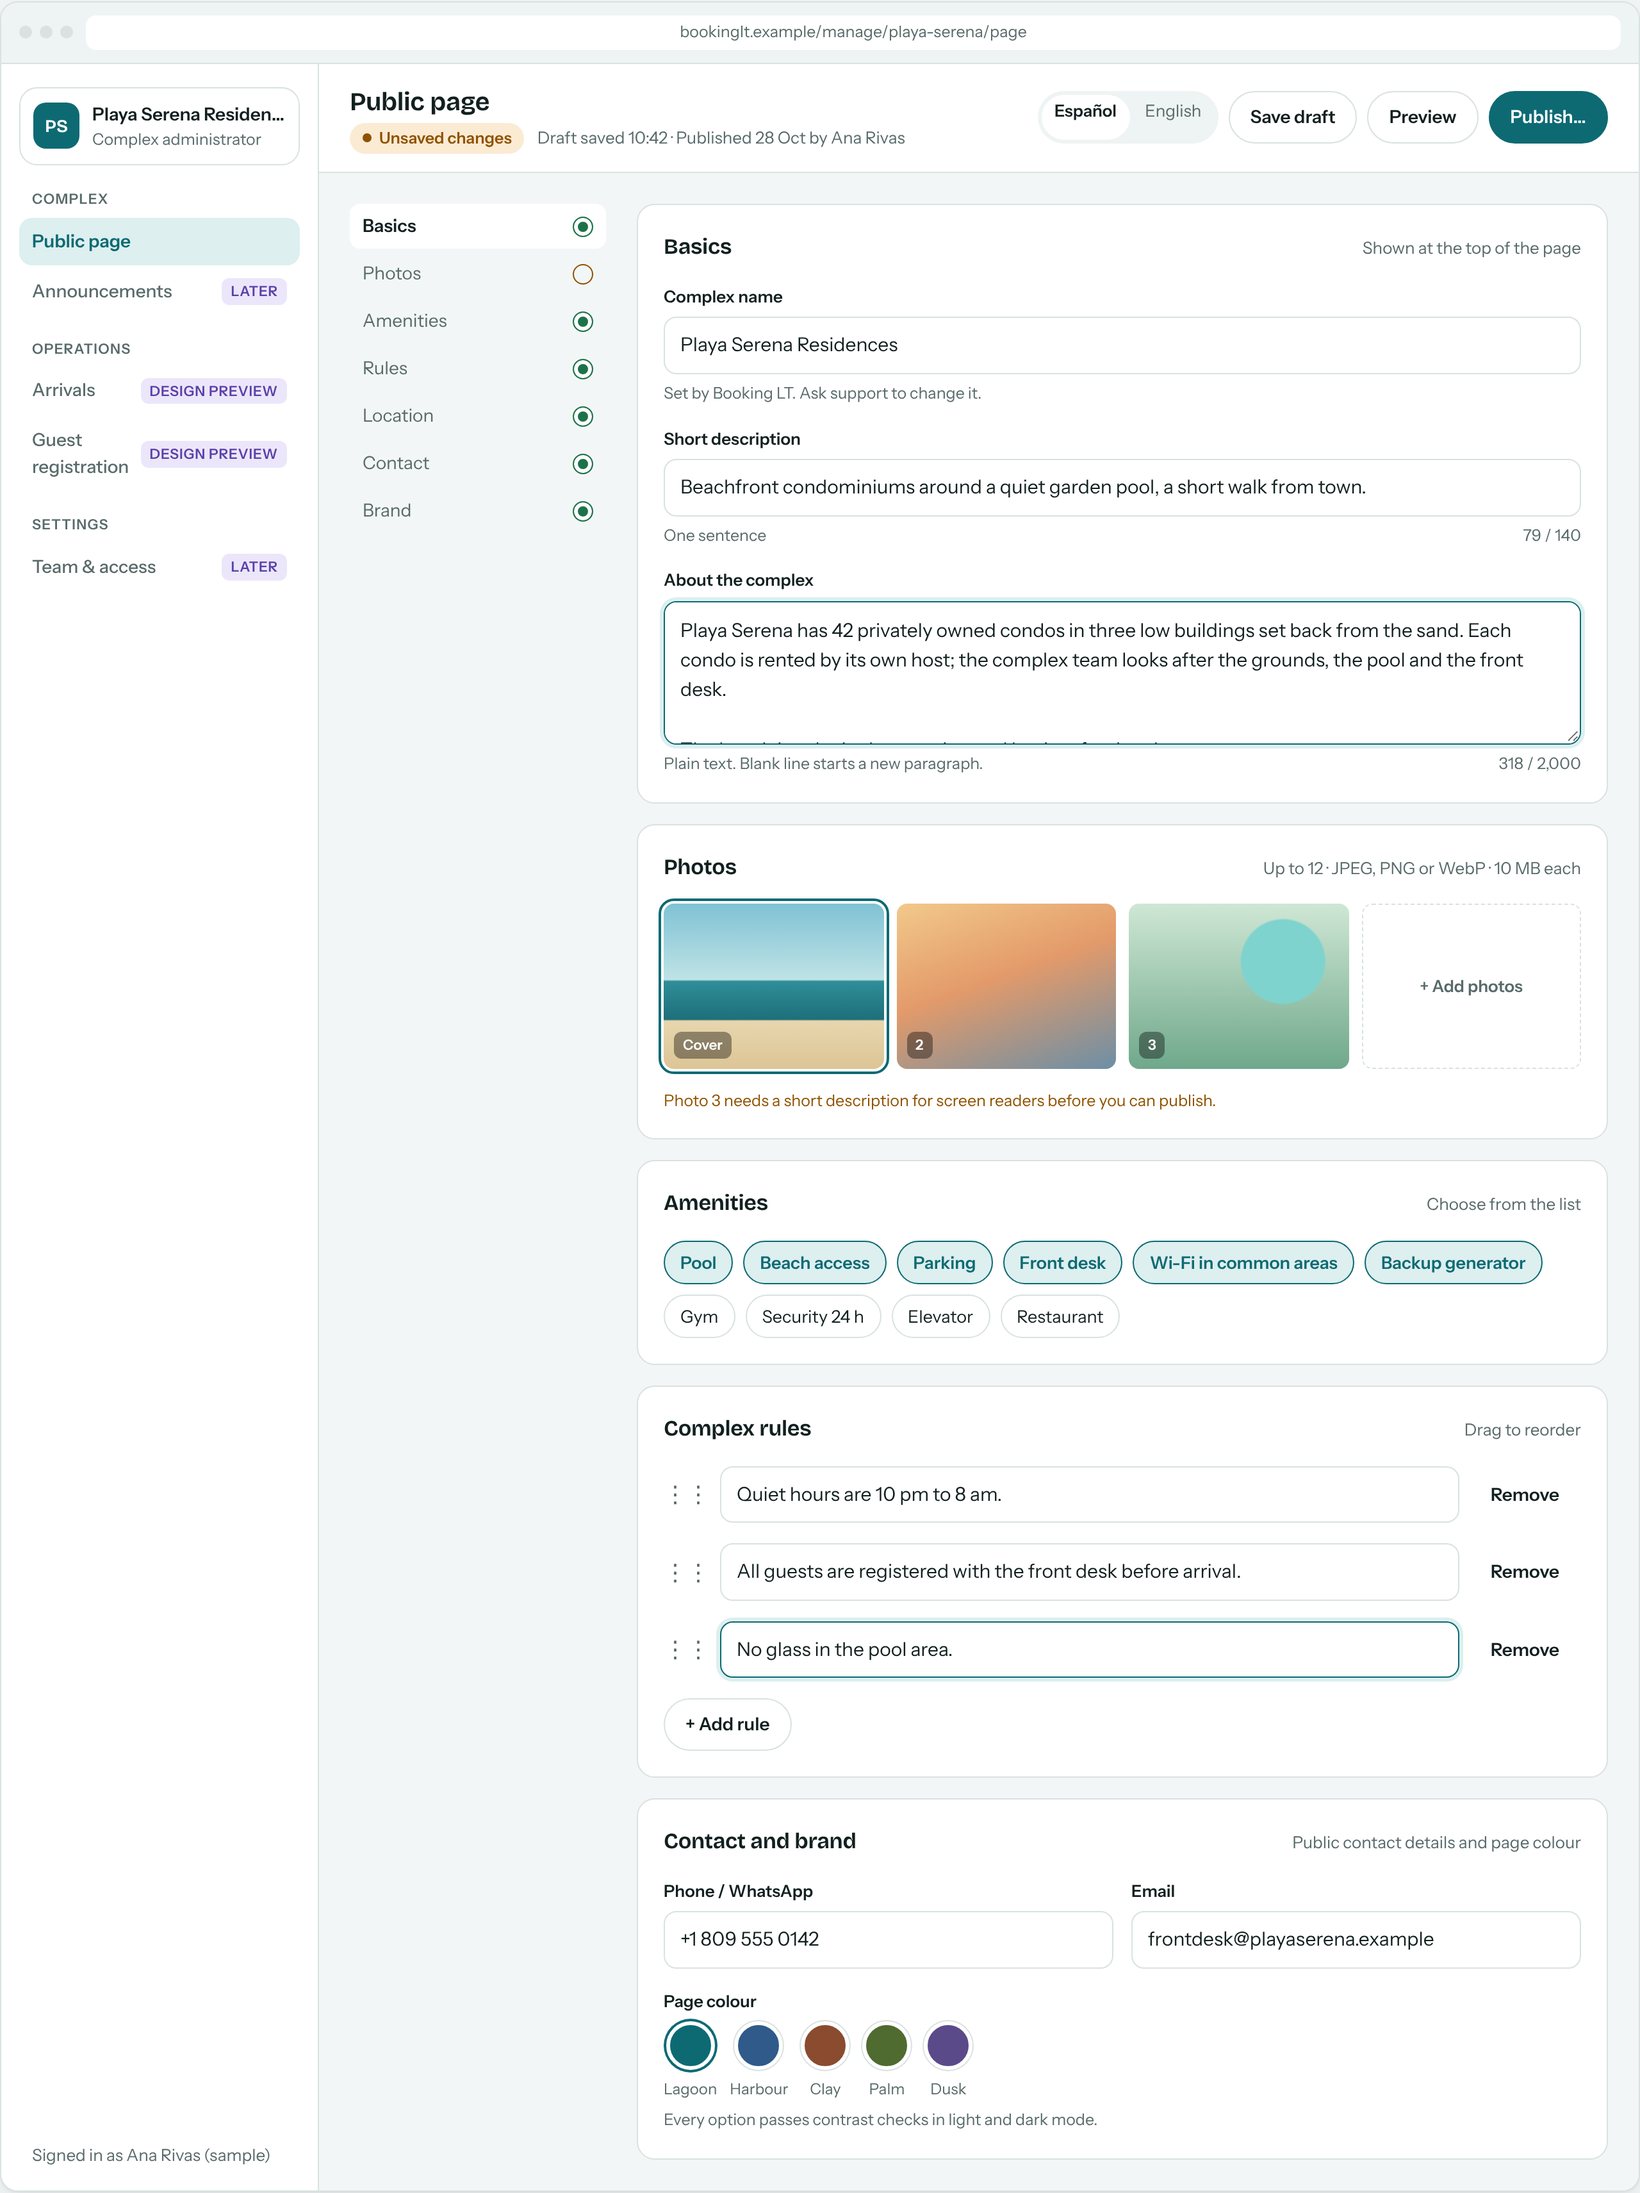
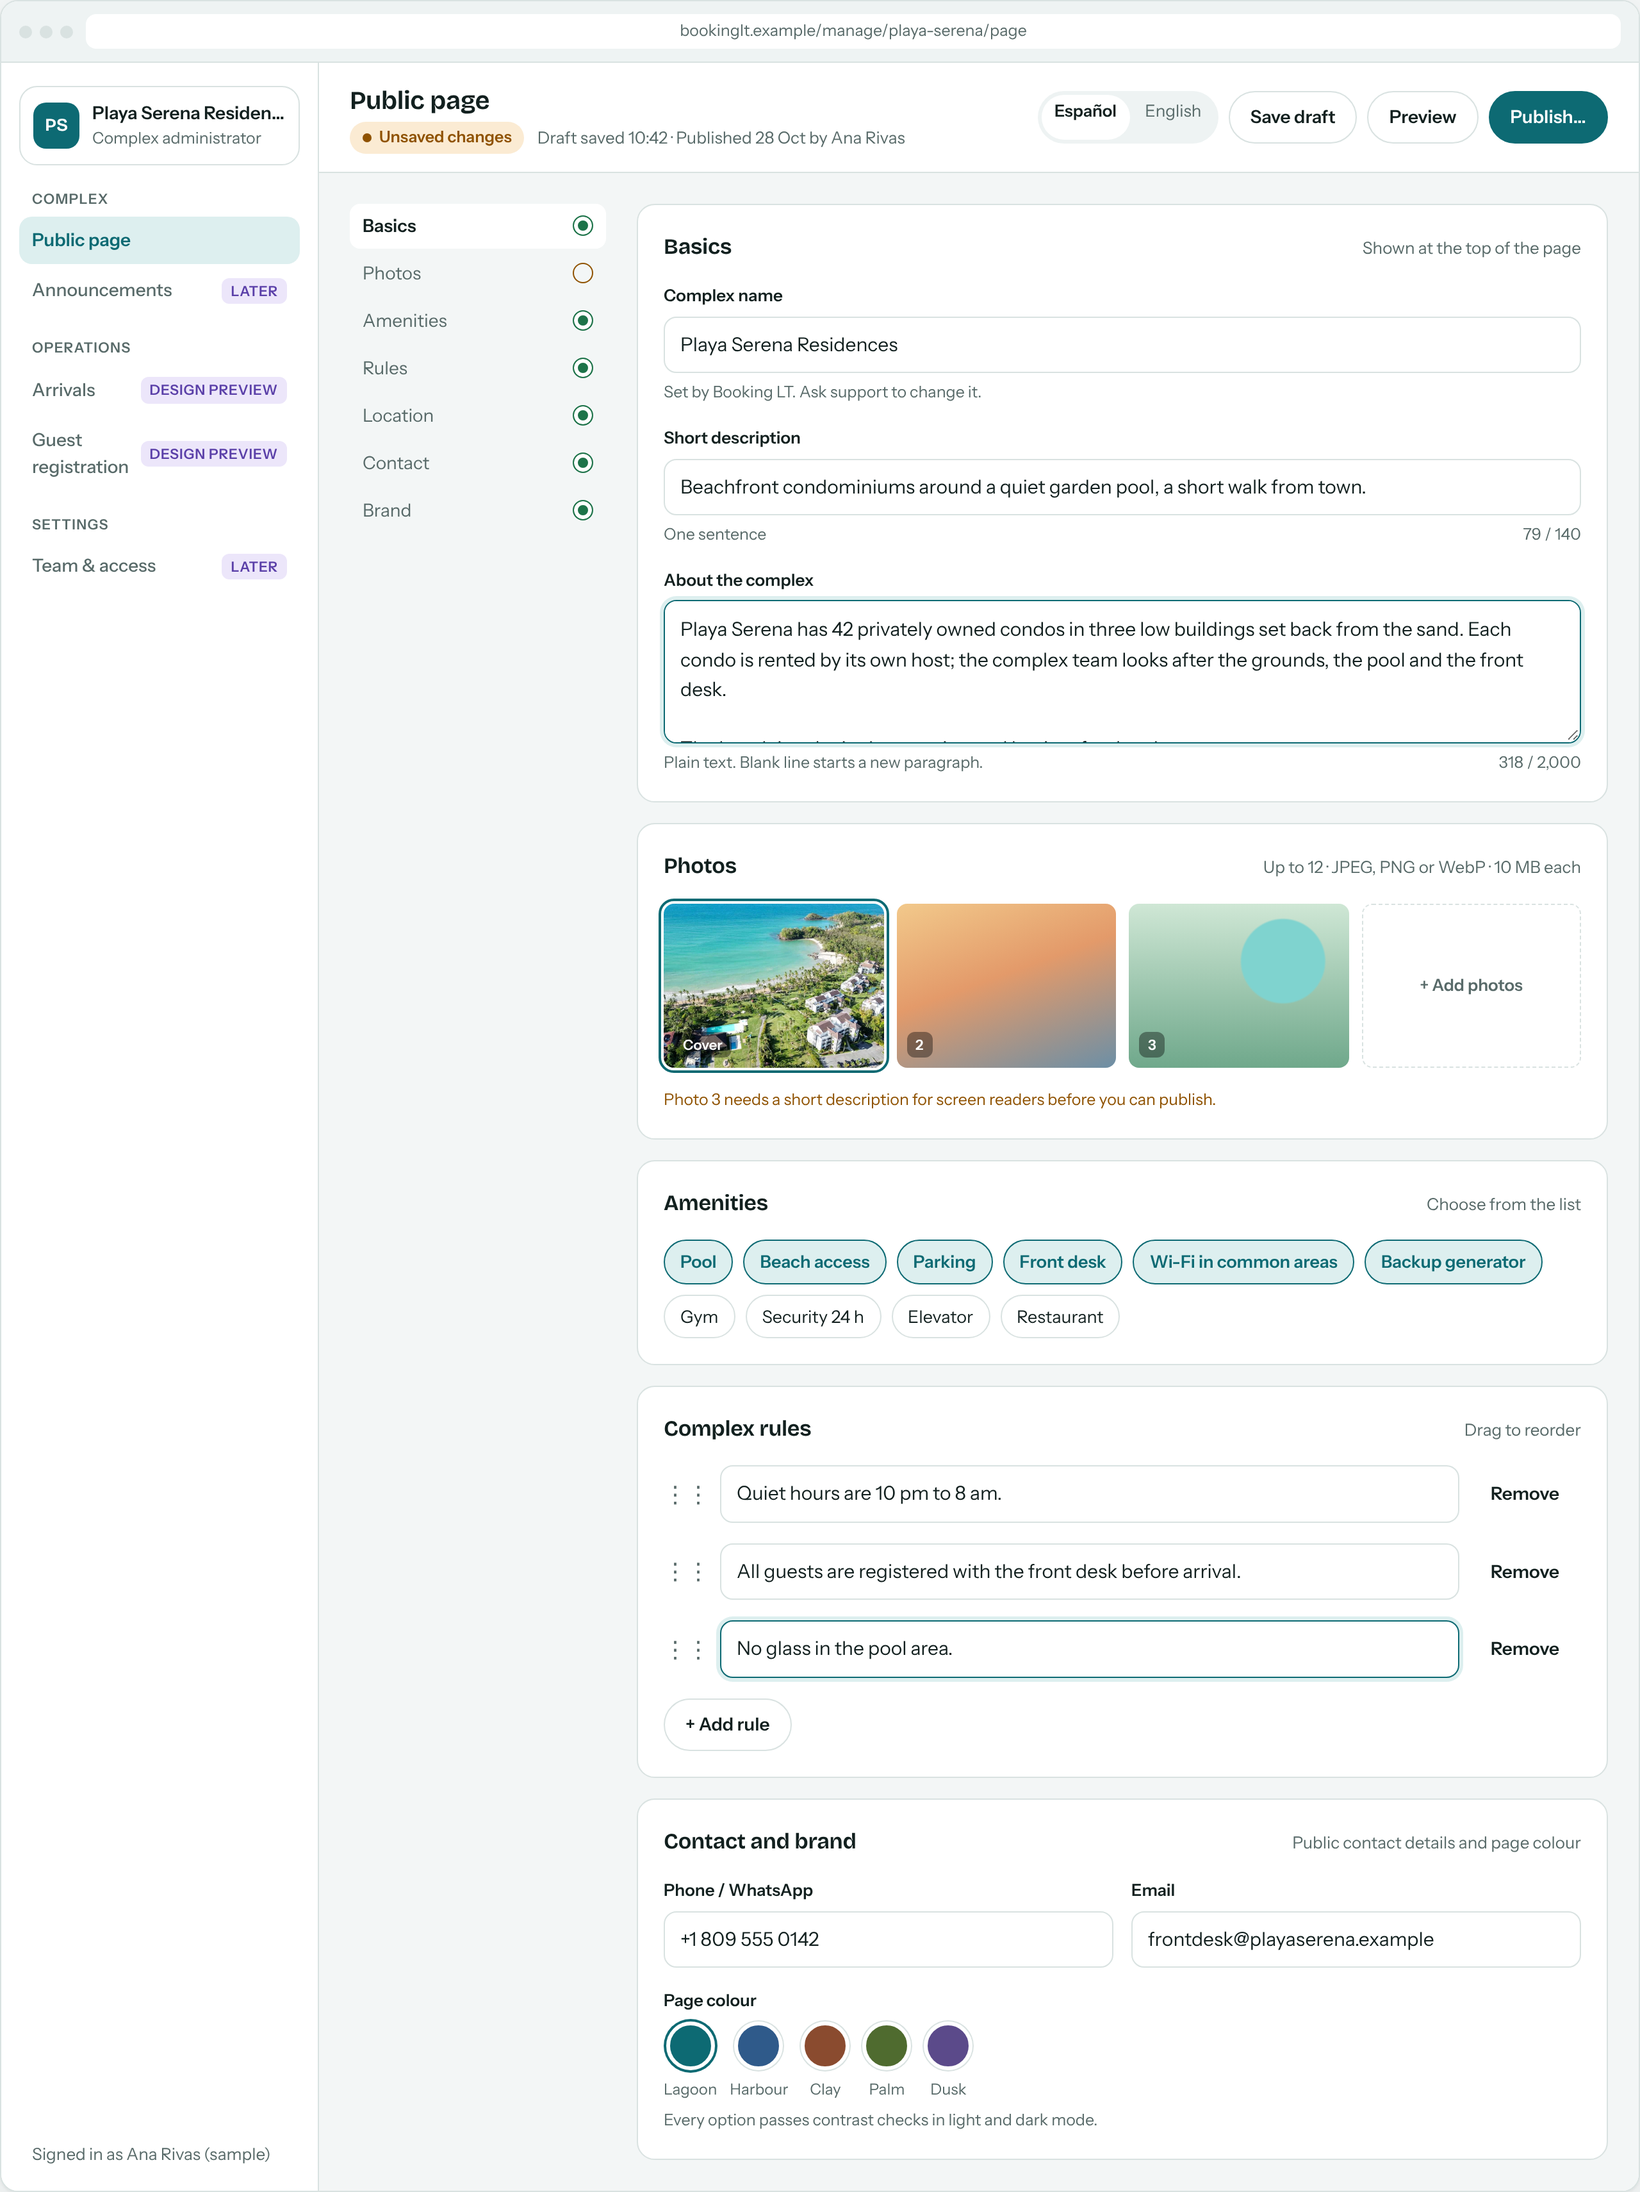
Use supplied aerial photo as the complex cover in design previews
Claude-Session: https://claude.ai/code/session_0149MffkdB1Dq8jBLV7YEnab

diff --git a/design/previews/m1-complex-page.html b/design/previews/m1-complex-page.html
@@ -3,7 +3,7 @@
 <meta name="robots" content="noindex">
 <!--
   Booking LT — Milestone 1 design previews (static, non-functional).
-  All names, contacts and photos are fictional placeholders.
+  Names and contacts are fictional placeholders; the cover photo was supplied for review and the other photos are drawn placeholders.
   Plan: docs/milestones/m1-complex-page.md
 -->
 <link rel="preconnect" href="https://fonts.googleapis.com">
@@ -122,6 +122,7 @@ body[data-device="mobile"] .browserbar { display: none; }
 .ph2 { background: linear-gradient(160deg, #F2C98B 0%, #E39A6A 45%, #6C8FA6 100%); }
 .ph3 { background: radial-gradient(circle at 70% 35%, #7FD3CF 0 22%, transparent 23%), linear-gradient(180deg, #CFE7D5, #6FA88B); }
 .ph4 { background: linear-gradient(135deg, #E9E2D3 0 50%, #CDBFA4 50% 100%); }
+.ph-real { background: #8FB9B5 url("assets/complex-cover.webp") center / cover no-repeat; }
 .ph5 { background: linear-gradient(180deg, #2D4F73 0%, #E58F65 60%, #F3C77A 100%); }
 
 /* ---------- Public complex page ---------- */
@@ -314,7 +315,7 @@ textarea.input { min-height: 112px; resize: vertical; line-height: 1.55; }
   <header class="board-head">
     <p class="eyebrow">Booking LT · Milestone 1 · Design preview for review</p>
     <h1>Complex public page and editor</h1>
-    <p class="lede">Static mock-ups, not working software. All names, contacts and photos are fictional placeholders. Items tagged <span class="tag">Design preview</span> or <span class="tag">Later</span> are outside Milestone 1.</p>
+    <p class="lede">Static mock-ups, not working software. Names and contacts are fictional placeholders; the cover photo was supplied for review and the other photos are drawn placeholders. Items tagged <span class="tag">Design preview</span> or <span class="tag">Later</span> are outside Milestone 1.</p>
     <div class="controls">
       <nav class="seg" aria-label="Screens">
         <a href="#public" data-tab="public">1 · Public page</a>
@@ -345,7 +346,7 @@ textarea.input { min-height: 112px; resize: vertical; line-height: 1.55; }
           <p class="tagline">Beachfront condominiums around a quiet garden pool, a short walk from town.</p>
         </div>
         <div class="gallery" aria-label="Photos">
-          <div class="ph ph1" role="img" aria-label="Beach in front of the complex at midday"><span>Sample photo</span><span class="more" hidden></span></div>
+          <div class="ph ph-real" role="img" aria-label="Aerial view of the beach, the garden pool and the condo buildings"></div>
           <div class="ph ph2" role="img" aria-label="Terrace at sunset"><span>Sample photo</span></div>
           <div class="ph ph3" role="img" aria-label="Garden pool"><span>Sample photo</span></div>
           <div class="ph ph4" role="img" aria-label="Lobby"><span>Sample photo</span></div>
@@ -463,7 +464,7 @@ The beach is calm in the morning and busier after lunch.</textarea><span class="
               <section class="card">
                 <div class="card-head"><h3>Photos</h3><p>Up to 12 · JPEG, PNG or WebP · 10 MB each</p></div>
                 <div class="photos">
-                  <div class="ph ph1 cover" role="img" aria-label="Cover photo"><span>Cover</span></div>
+                  <div class="ph ph-real cover" role="img" aria-label="Cover photo: aerial view of the beach and the complex"><span>Cover</span></div>
                   <div class="ph ph2" role="img" aria-label="Photo 2"><span>2</span></div>
                   <div class="ph ph3" role="img" aria-label="Photo 3"><span>3</span></div>
                   <div class="add">+ Add photos</div>
@@ -547,7 +548,7 @@ The beach is calm in the morning and busier after lunch.</textarea><span class="
           <p class="tagline">Beachfront condominiums around a quiet garden pool, a short walk from town.</p>
         </div>
         <div class="gallery" aria-label="Photos">
-          <div class="ph ph1" role="img" aria-label="Beach"><span>Sample photo</span></div>
+          <div class="ph ph-real" role="img" aria-label="Aerial view of the beach, the garden pool and the condo buildings"></div>
           <div class="ph ph2" role="img" aria-label="Terrace"><span>Sample photo</span></div>
           <div class="ph ph3" role="img" aria-label="Pool"><span>Sample photo</span></div>
           <div class="ph ph4" role="img" aria-label="Lobby"><span>Sample photo</span></div>

diff --git a/docs/milestones/m1-complex-page.md b/docs/milestones/m1-complex-page.md
@@ -281,8 +281,10 @@ four screens; a toggle shows the desktop and phone layouts. Screenshots:
 | 3. Preview and publish confirmation | `preview-desktop.png` | `preview-mobile.png` |
 | 4. Arrivals — **design preview, not M1** | `arrivals-desktop.png` | `arrivals-mobile.png` |
 
-All content is fictional ("Playa Serena Residences", `.example` contacts, drawn
-placeholder photos). Design choices:
+Names and contacts are fictional ("Playa Serena Residences", `.example` contacts).
+The cover photo (`design/previews/assets/complex-cover.webp`) was supplied by the
+product owner for this review; the other photos are drawn placeholders. Confirm
+the right to use that photo before it appears anywhere public. Design choices:
 - **Public page:** large title and photo mosaic, generous white space, one calm
   accent colour taken from the complex's brand preset. The side card holds contact
   details; "Stays" is a clearly marked placeholder until listings exist. It states
